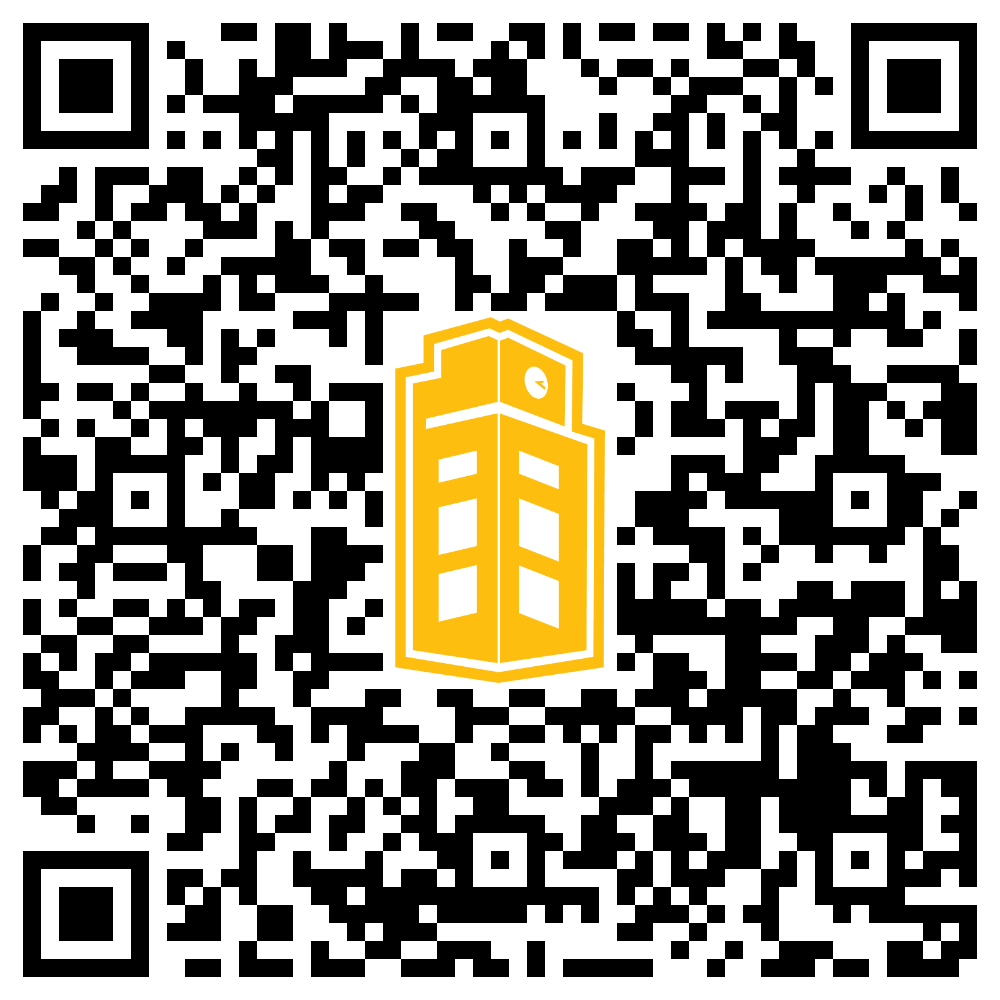
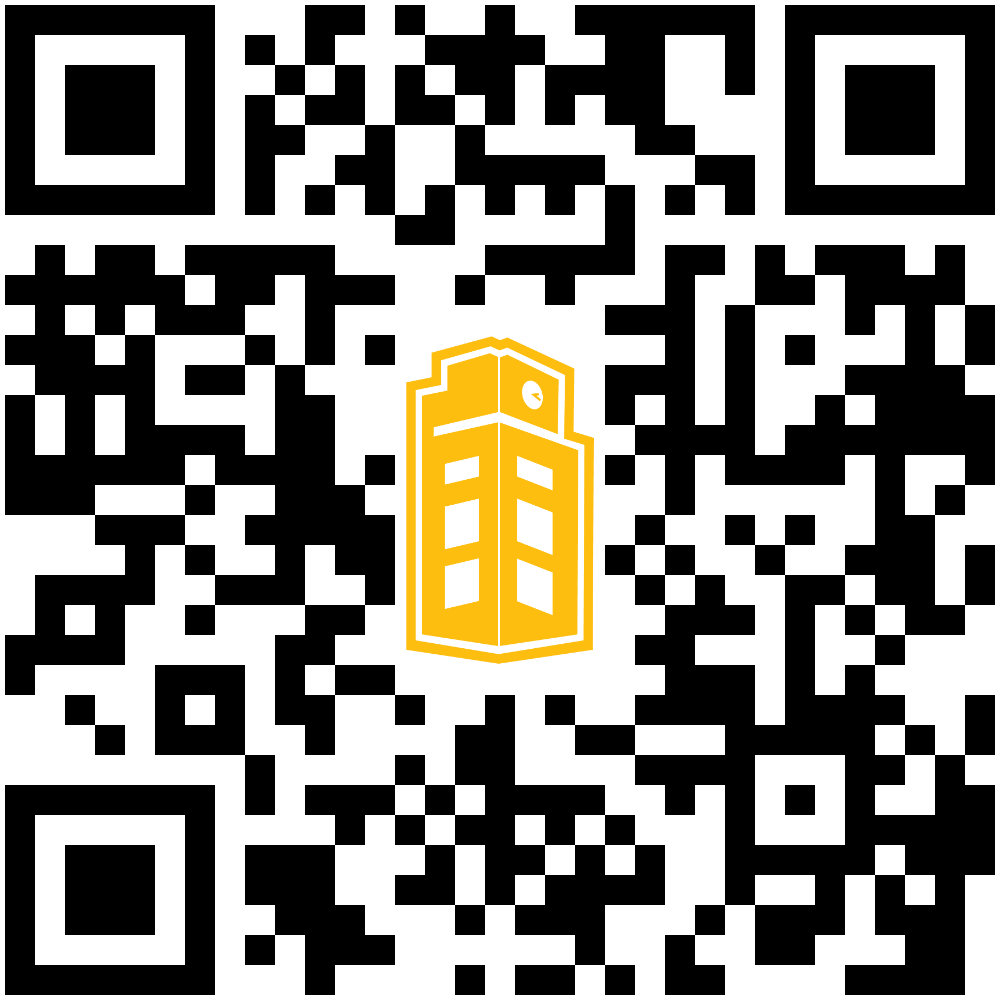
short link

diff --git a/content/qr.md b/content/qr.md
@@ -5,4 +5,11 @@ permalink: /qr.html
 
 Please visit the [AI Research Tools survey form](https://docs.google.com/forms/d/e/1FAIpQLScko22C09-lF9HedtmJm1Gc8aMGTZDSn7AgKnOYKKFLcni5mA/viewform?usp=publish-editor) to fill out a quick temperature check before the session.
 
+Short link to this page:
+
+`is.gd/ai_ilw`
+{:.h1 .mb-5}
+
 {% include figure.html img="qr-code.png" alt="qr code linking to survey above" %}
+
+`evanwill.github.io/ai-research/`
